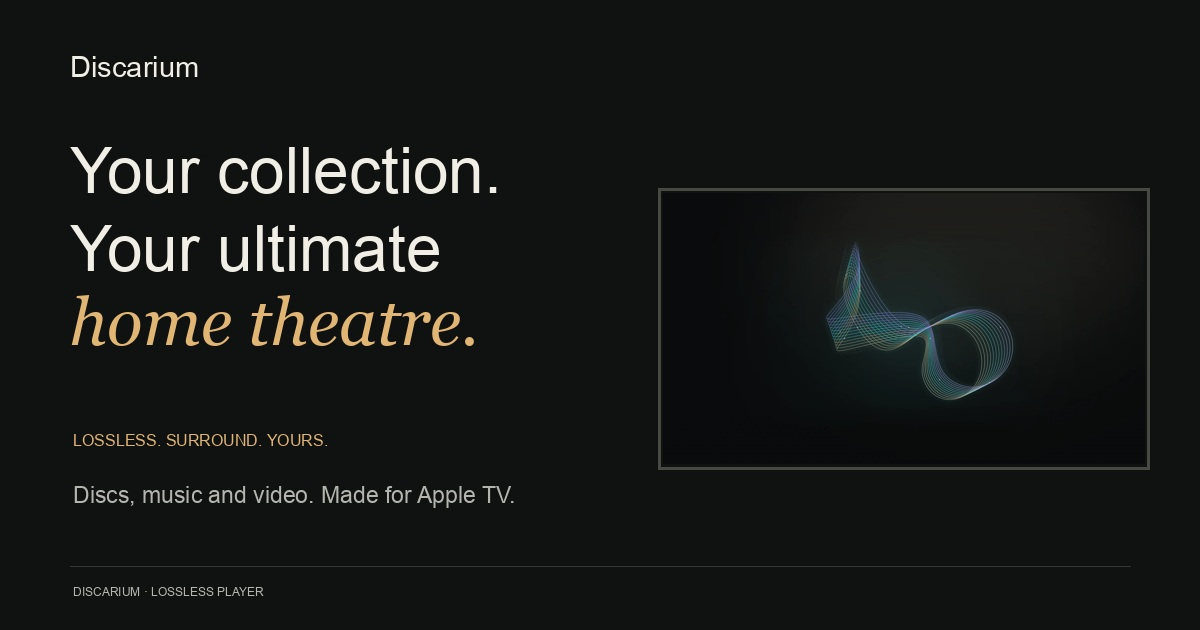
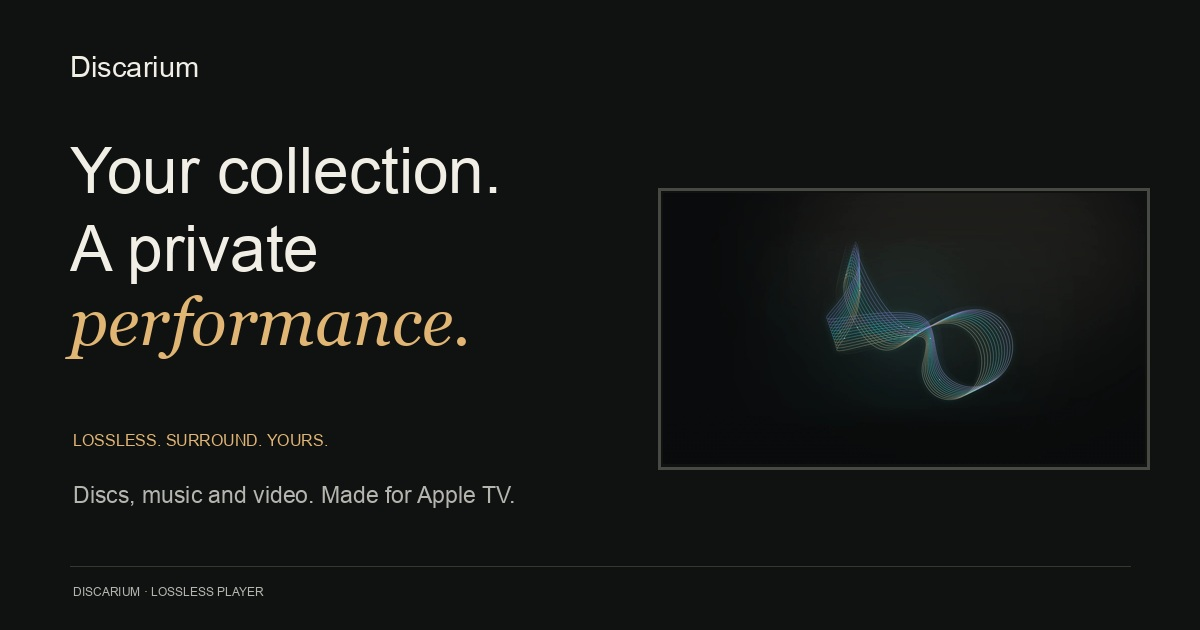
Adopt Your collection. A private performance. tagline

Changed region(s): [[0.0617, 0.3619, 0.4008, 0.573]]

diff --git a/site/index.html b/site/index.html
@@ -5,18 +5,18 @@
   <meta name="viewport" content="width=device-width, initial-scale=1">
   <meta name="color-scheme" content="dark">
   <meta name="theme-color" content="#101111">
-  <title>Discarium — Your collection. Your ultimate home theatre.</title>
+  <title>Discarium — Your collection. A private performance.</title>
   <meta name="description" content="Lossless audio, original-quality video and compatible Blu-ray and DVD menus. Your own music and film collection, on Apple TV.">
   <link rel="canonical" href="https://pawelfaron.github.io/DiscariumWebPage/">
   <meta property="og:type" content="website">
   <meta property="og:site_name" content="Discarium">
-  <meta property="og:title" content="Discarium — Your collection. Your ultimate home theatre.">
+  <meta property="og:title" content="Discarium — Your collection. A private performance.">
   <meta property="og:description" content="Lossless audio, original-quality video and compatible Blu-ray and DVD menus. Your own music and film collection, on Apple TV.">
   <meta property="og:url" content="https://pawelfaron.github.io/DiscariumWebPage/">
   <meta property="og:image" content="https://pawelfaron.github.io/DiscariumWebPage/assets/social.jpg">
   <meta property="og:image:width" content="1200">
   <meta property="og:image:height" content="630">
-  <meta property="og:image:alt" content="Discarium. Your collection. Your ultimate home theatre.">
+  <meta property="og:image:alt" content="Discarium. Your collection. A private performance.">
   <meta name="twitter:card" content="summary_large_image">
   <link rel="icon" href="assets/favicon.svg" type="image/svg+xml">
   <link rel="stylesheet" href="assets/site.css">
@@ -38,7 +38,7 @@
       <span class="status-dot"></span> DISCS. MUSIC. CINEMA.
     </p>
     <h1 id="hero-title">
-      Your collection.<br />Your ultimate<br /><em>home theatre.</em>
+      Your collection.<br />A private<br /><em>performance.</em>
     </h1>
     <p class="hero-intro">
       The albums you love. The concerts you keep.<br class="desktop-break" />
@@ -239,7 +239,7 @@
 <section class="signal-section wrap" aria-labelledby="signal-title">
   <div class="split">
     <div>
-      <p class="eyebrow">MADE FOR YOUR HI-FI & HOME THEATRE</p>
+      <p class="eyebrow">MADE FOR YOUR HI-FI</p>
       <h2 id="signal-title">Hear the recording.<br />Know the signal.</h2>
       <p>
         Lossless audio. Video without additional lossy re-encoding by the app.
@@ -333,7 +333,7 @@
   <footer class="site-footer wrap">
     <div class="footer-top">
       <a class="brand" href="./"><img src="assets/mark.svg" alt="" width="33" height="33"><span>Discarium</span></a>
-      <p>Your collection. Your cinema.</p>
+      <p>Your collection. A private performance.</p>
       <nav aria-label="Footer navigation"><a href="support.html">Support</a><a href="privacy.html">Privacy</a><a href="source.html">Open source</a></nav>
     </div>
     <div class="footer-bottom"><span>© 2026 Pawel Faron</span><span>Made for Apple TV. Made for your collection.</span></div>

diff --git a/site/compatibility.html b/site/compatibility.html
@@ -16,7 +16,7 @@
   <meta property="og:image" content="https://pawelfaron.github.io/DiscariumWebPage/assets/social.jpg">
   <meta property="og:image:width" content="1200">
   <meta property="og:image:height" content="630">
-  <meta property="og:image:alt" content="Discarium. Your collection. Your ultimate home theatre.">
+  <meta property="og:image:alt" content="Discarium. Your collection. A private performance.">
   <meta name="twitter:card" content="summary_large_image">
   <link rel="icon" href="assets/favicon.svg" type="image/svg+xml">
   <link rel="stylesheet" href="assets/site.css">
@@ -321,7 +321,7 @@
   <footer class="site-footer wrap">
     <div class="footer-top">
       <a class="brand" href="./"><img src="assets/mark.svg" alt="" width="33" height="33"><span>Discarium</span></a>
-      <p>Your collection. Your cinema.</p>
+      <p>Your collection. A private performance.</p>
       <nav aria-label="Footer navigation"><a href="support.html">Support</a><a href="privacy.html">Privacy</a><a href="source.html">Open source</a></nav>
     </div>
     <div class="footer-bottom"><span>© 2026 Pawel Faron</span><span>Made for Apple TV. Made for your collection.</span></div>

diff --git a/site/privacy.html b/site/privacy.html
@@ -16,7 +16,7 @@
   <meta property="og:image" content="https://pawelfaron.github.io/DiscariumWebPage/assets/social.jpg">
   <meta property="og:image:width" content="1200">
   <meta property="og:image:height" content="630">
-  <meta property="og:image:alt" content="Discarium. Your collection. Your ultimate home theatre.">
+  <meta property="og:image:alt" content="Discarium. Your collection. A private performance.">
   <meta name="twitter:card" content="summary_large_image">
   <link rel="icon" href="assets/favicon.svg" type="image/svg+xml">
   <link rel="stylesheet" href="assets/site.css">
@@ -231,7 +231,7 @@
   <footer class="site-footer wrap">
     <div class="footer-top">
       <a class="brand" href="./"><img src="assets/mark.svg" alt="" width="33" height="33"><span>Discarium</span></a>
-      <p>Your collection. Your cinema.</p>
+      <p>Your collection. A private performance.</p>
       <nav aria-label="Footer navigation"><a href="support.html">Support</a><a href="privacy.html">Privacy</a><a href="source.html">Open source</a></nav>
     </div>
     <div class="footer-bottom"><span>© 2026 Pawel Faron</span><span>Made for Apple TV. Made for your collection.</span></div>

diff --git a/site/support.html b/site/support.html
@@ -16,7 +16,7 @@
   <meta property="og:image" content="https://pawelfaron.github.io/DiscariumWebPage/assets/social.jpg">
   <meta property="og:image:width" content="1200">
   <meta property="og:image:height" content="630">
-  <meta property="og:image:alt" content="Discarium. Your collection. Your ultimate home theatre.">
+  <meta property="og:image:alt" content="Discarium. Your collection. A private performance.">
   <meta name="twitter:card" content="summary_large_image">
   <link rel="icon" href="assets/favicon.svg" type="image/svg+xml">
   <link rel="stylesheet" href="assets/site.css">
@@ -283,7 +283,7 @@
   <footer class="site-footer wrap">
     <div class="footer-top">
       <a class="brand" href="./"><img src="assets/mark.svg" alt="" width="33" height="33"><span>Discarium</span></a>
-      <p>Your collection. Your cinema.</p>
+      <p>Your collection. A private performance.</p>
       <nav aria-label="Footer navigation"><a href="support.html">Support</a><a href="privacy.html">Privacy</a><a href="source.html">Open source</a></nav>
     </div>
     <div class="footer-bottom"><span>© 2026 Pawel Faron</span><span>Made for Apple TV. Made for your collection.</span></div>

diff --git a/site/404.html b/site/404.html
@@ -18,7 +18,7 @@
   <meta property="og:image" content="https://pawelfaron.github.io/DiscariumWebPage/assets/social.jpg">
   <meta property="og:image:width" content="1200">
   <meta property="og:image:height" content="630">
-  <meta property="og:image:alt" content="Discarium. Your collection. Your ultimate home theatre.">
+  <meta property="og:image:alt" content="Discarium. Your collection. A private performance.">
   <meta name="twitter:card" content="summary_large_image">
   <link rel="icon" href="assets/favicon.svg" type="image/svg+xml">
   <link rel="stylesheet" href="assets/site.css">
@@ -49,7 +49,7 @@
   <footer class="site-footer wrap">
     <div class="footer-top">
       <a class="brand" href="./"><img src="assets/mark.svg" alt="" width="33" height="33"><span>Discarium</span></a>
-      <p>Your collection. Your cinema.</p>
+      <p>Your collection. A private performance.</p>
       <nav aria-label="Footer navigation"><a href="support.html">Support</a><a href="privacy.html">Privacy</a><a href="source.html">Open source</a></nav>
     </div>
     <div class="footer-bottom"><span>© 2026 Pawel Faron</span><span>Made for Apple TV. Made for your collection.</span></div>

diff --git a/site/source.html b/site/source.html
@@ -16,7 +16,7 @@
   <meta property="og:image" content="https://pawelfaron.github.io/DiscariumWebPage/assets/social.jpg">
   <meta property="og:image:width" content="1200">
   <meta property="og:image:height" content="630">
-  <meta property="og:image:alt" content="Discarium. Your collection. Your ultimate home theatre.">
+  <meta property="og:image:alt" content="Discarium. Your collection. A private performance.">
   <meta name="twitter:card" content="summary_large_image">
   <link rel="icon" href="assets/favicon.svg" type="image/svg+xml">
   <link rel="stylesheet" href="assets/site.css">
@@ -89,7 +89,7 @@
   <footer class="site-footer wrap">
     <div class="footer-top">
       <a class="brand" href="./"><img src="assets/mark.svg" alt="" width="33" height="33"><span>Discarium</span></a>
-      <p>Your collection. Your cinema.</p>
+      <p>Your collection. A private performance.</p>
       <nav aria-label="Footer navigation"><a href="support.html">Support</a><a href="privacy.html">Privacy</a><a href="source.html">Open source</a></nav>
     </div>
     <div class="footer-bottom"><span>© 2026 Pawel Faron</span><span>Made for Apple TV. Made for your collection.</span></div>

diff --git a/src/template.html b/src/template.html
@@ -16,7 +16,7 @@
   <meta property="og:image" content="{{base_url}}assets/social.jpg">
   <meta property="og:image:width" content="1200">
   <meta property="og:image:height" content="630">
-  <meta property="og:image:alt" content="Discarium. Your collection. Your ultimate home theatre.">
+  <meta property="og:image:alt" content="Discarium. Your collection. A private performance.">
   <meta name="twitter:card" content="summary_large_image">
   <link rel="icon" href="assets/favicon.svg" type="image/svg+xml">
   <link rel="stylesheet" href="assets/site.css">
@@ -36,7 +36,7 @@
   <footer class="site-footer wrap">
     <div class="footer-top">
       <a class="brand" href="./"><img src="assets/mark.svg" alt="" width="33" height="33"><span>Discarium</span></a>
-      <p>Your collection. Your cinema.</p>
+      <p>Your collection. A private performance.</p>
       <nav aria-label="Footer navigation"><a href="support.html">Support</a><a href="privacy.html">Privacy</a><a href="source.html">Open source</a></nav>
     </div>
     <div class="footer-bottom"><span>© 2026 {{developer}}</span><span>Made for Apple TV. Made for your collection.</span></div>

diff --git a/src/pages/index.html b/src/pages/index.html
@@ -4,7 +4,7 @@
       <span class="status-dot"></span> DISCS. MUSIC. CINEMA.
     </p>
     <h1 id="hero-title">
-      Your collection.<br />Your ultimate<br /><em>home theatre.</em>
+      Your collection.<br />A private<br /><em>performance.</em>
     </h1>
     <p class="hero-intro">
       The albums you love. The concerts you keep.<br class="desktop-break" />
@@ -205,7 +205,7 @@
 <section class="signal-section wrap" aria-labelledby="signal-title">
   <div class="split">
     <div>
-      <p class="eyebrow">MADE FOR YOUR HI-FI & HOME THEATRE</p>
+      <p class="eyebrow">MADE FOR YOUR HI-FI</p>
       <h2 id="signal-title">Hear the recording.<br />Know the signal.</h2>
       <p>
         Lossless audio. Video without additional lossy re-encoding by the app.

diff --git a/scripts/generate_social.py b/scripts/generate_social.py
@@ -1,0 +1,39 @@
+#!/usr/bin/env python3
+"""Regenerate the committed link preview. Optional authoring dependency: Pillow."""
+from pathlib import Path
+from PIL import Image, ImageDraw, ImageFont
+
+ROOT = Path(__file__).resolve().parents[1]
+ASSETS = ROOT / "site/assets"
+
+
+def font(size, italic=False):
+    paths = (
+        ["/System/Library/Fonts/Supplemental/Georgia Italic.ttf",
+         "/usr/share/fonts/truetype/dejavu/DejaVuSerif-Italic.ttf"] if italic else
+        ["/System/Library/Fonts/Supplemental/Arial.ttf",
+         "/usr/share/fonts/truetype/dejavu/DejaVuSans.ttf"]
+    )
+    return ImageFont.truetype(next(path for path in paths if Path(path).is_file()), size)
+
+
+def main():
+    image = Image.new("RGB", (1200, 630), "#101111")
+    draw = ImageDraw.Draw(image)
+    draw.text((70, 50), "Discarium", font=font(29), fill="#f1eee6")
+    draw.text((70, 135), "Your collection.", font=font(64), fill="#f1eee6")
+    draw.text((70, 213), "A private", font=font(64), fill="#f1eee6")
+    draw.text((70, 284), "performance.", font=font(66, italic=True), fill="#e1b574")
+    draw.text((73, 431), "LOSSLESS. SURROUND. YOURS.", font=font(16), fill="#e1b574")
+    draw.text((73, 482), "Discs, music and video. Made for Apple TV.", font=font(23), fill="#b3b5ae")
+    draw.line((70, 566, 1130, 566), fill="#343830", width=1)
+    draw.text((73, 585), "DISCARIUM · LOSSLESS PLAYER", font=font(12), fill="#b3b5ae")
+    with Image.open(ASSETS / "orbit.webp") as screen:
+        screen.thumbnail((482, 272))
+        image.paste(screen, (663, 193))
+    draw.rectangle((658, 188, 1149, 469), outline="#464a42", width=3)
+    image.save(ASSETS / "social.jpg", quality=94)
+
+
+if __name__ == "__main__":
+    main()

diff --git a/scripts/build.py b/scripts/build.py
@@ -7,7 +7,7 @@ import json
 
 ROOT = Path(__file__).resolve().parents[1]
 PAGES = {
-    "index": ("Discarium — Your collection. Your ultimate home theatre.", "Lossless audio, original-quality video and compatible Blu-ray and DVD menus. Your own music and film collection, on Apple TV.", "home"),
+    "index": ("Discarium — Your collection. A private performance.", "Lossless audio, original-quality video and compatible Blu-ray and DVD menus. Your own music and film collection, on Apple TV.", "home"),
     "compatibility": ("Formats & compatibility — Discarium", "Audio, video and disc formats supported by Discarium on Apple TV, including lossless surround sound, HDR10 and original disc menus.", "document"),
     "support": ("Support — Discarium", "Set up your collection, connect your receiver and get help with Discarium for Apple TV. Contact the developer directly.", "document"),
     "privacy": ("Privacy policy — Discarium", "How Discarium handles your library, network connections, playback history and support requests. Privacy choices and data deletion.", "document"),

diff --git a/docs/ASSETS.md b/docs/ASSETS.md
@@ -2,7 +2,7 @@
 
 - `site/assets/mark.svg` is the approved Discarium three-ring logo, copied from the application's `branding/mark.svg`. Its amber dot and silver rings are unchanged.
 - `audio.webp`, `album.webp`, `player.webp`, `orbit.webp`, `details.webp` come from the real Apple TV screenshots of Discarium 1.0 used for build 22's store materials. They show the original bundled demo library. Web versions are resized to 1920×1080 and compressed for page loading; these are marketing images, not media playback output.
-- `social.jpg` is an original 1200×630 link-preview composition using the same demo screenshot and brand palette.
+- `social.jpg` is an original 1200×630 link-preview composition using the same demo screenshot and brand palette. Regenerate it with `python3 scripts/generate_social.py` (Pillow required for this optional authoring step). It uses the selected headline: “Your collection. A private performance.”
 - The disc illustration and television frame are CSS, not stock photos or borrowed hardware images. They are decorative, not screenshots of a disc menu.
 - All page images and fonts are served locally or use installed system fonts. No external CDN, image tracking, web-font request or embedded video service.
 

diff --git a/docs/APP-STORE-COPY.md b/docs/APP-STORE-COPY.md
@@ -2,13 +2,13 @@
 
 Suggested homepage / promotional language:
 
-> Your collection. Your ultimate home theatre.
+> Your collection. A private performance.
 >
 > Lossless audio, original-quality video and the disc experience, brought together on Apple TV. Built for music lovers, audiophiles and the system you’ve made your own.
 
 Promotional text (under Apple's 170-character limit):
 
-> Your collection. Your ultimate home theatre. Lossless audio, films and concerts, with direct playback of supported Blu-ray and DVD copies and original menus.
+> Your collection. A private performance. Lossless audio, films and concerts, with direct playback of supported Blu-ray and DVD copies and original menus.
 
 Paragraph for a store description:
 
